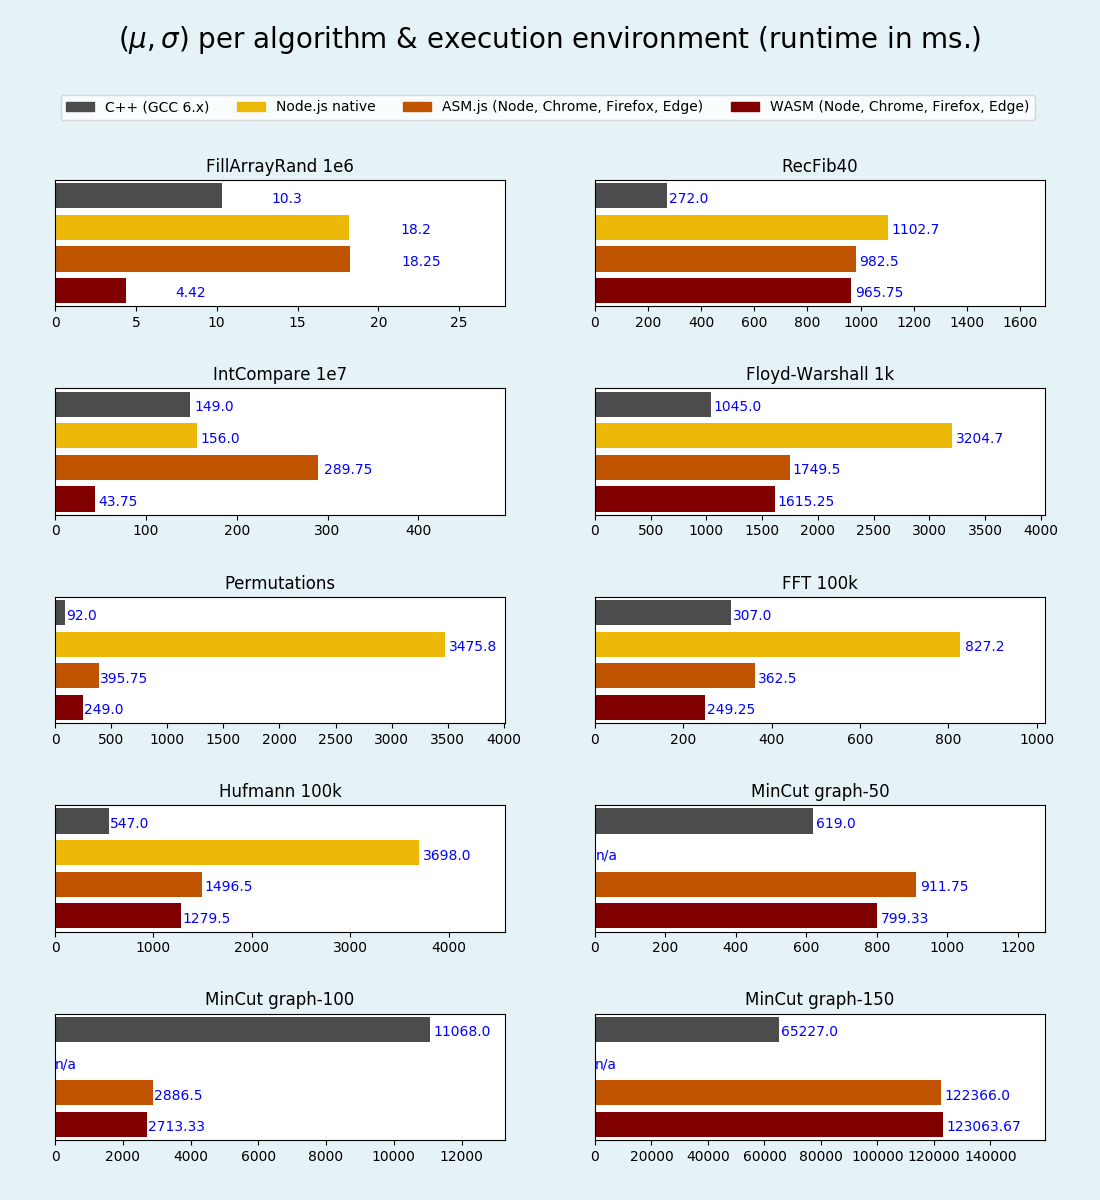
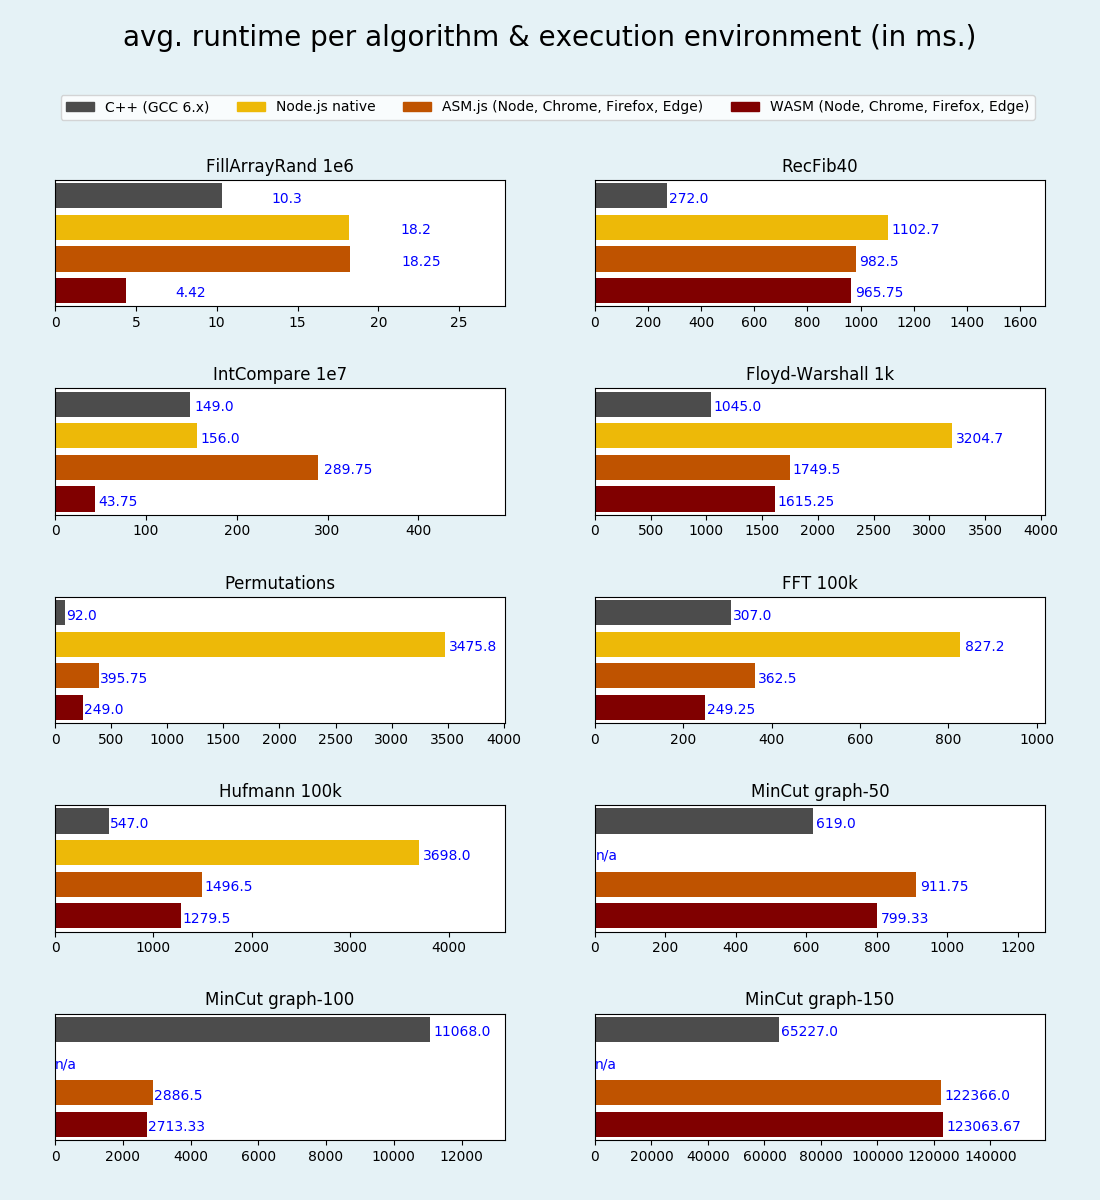
corrected diagram title and re-computed all-log plot

Changed region(s): [[0.0927, 0.0, 0.8964, 0.0617]]

diff --git a/stats/plots/mean_std_runtime_groups.py b/stats/plots/mean_std_runtime_groups.py
@@ -1,8 +1,8 @@
 from stats.plots.input_csv import readFromCSV, INPUT_CSV, INPUT_COLS, K_FOLD_VAL
 import numpy as np
 import matplotlib.pyplot as plt
-from scipy.misc import imread
-import colorsys
+# from scipy.misc import imread
+# import colorsys
 
 
 """
@@ -13,10 +13,10 @@ Barchart
 A bar plot with errorbars and height labels on individual bars
 """
 
-# colors = ['#800000', '#bf5300', '#edb908', '#4c4c4c', '#009000']
+colors = ['#800000', '#bf5300', '#edb908', '#4c4c4c', '#009000']
 # colors = ['#4f2c1d', '#cba052', '#ffe680', '#fef1b2', '#7cff00']
 # colors = ['#6f94d2', '#5b1085', '#abfdfb', '#a72294', '#f07fe0']
-colors = ['#ffa472', '#ff8847', '#e17e7c', '#ce7798', '#a669db']
+# colors = ['#ffa472', '#ff8847', '#e17e7c', '#ce7798', '#a669db']
 
 data = readFromCSV(INPUT_CSV, INPUT_COLS, K_FOLD_VAL)
 
@@ -30,7 +30,7 @@ algo_std = np.array(data.std(axis=0))
 natives = ["Native C++ GCC", "Native C++ VS"]
 jss = ["native JS Node"]
 asms = ["ASM.js Node", "ASM.js Chrome", "ASM.js Firefox", "ASM.js Edge"]
-wasms = ["WASM Chrome", "WASM Firefox", "WASM Edge"]
+wasms = ["WASM Node", "WASM Chrome", "WASM Firefox", "WASM Edge"]
 
 native_means = []
 native_stds = []
@@ -43,14 +43,14 @@ wasm_stds = []
 
 # Native CPP implementations
 for col in INPUT_COLS:
-    native_means.append(np.mean(np.array(data.loc[data[K_FOLD_VAL].isin(natives)][col])))
-    native_stds.append(np.std(np.array(data.loc[data[K_FOLD_VAL].isin(natives)][col])))
-    js_means.append(np.mean(np.array(data.loc[data[K_FOLD_VAL].isin(jss)][col])))
-    js_stds.append(np.std(np.array(data.loc[data[K_FOLD_VAL].isin(jss)][col])))
-    asmjs_means.append(np.mean(np.array(data.loc[data[K_FOLD_VAL].isin(asms)][col])))
-    asmjs_stds.append(np.std(np.array(data.loc[data[K_FOLD_VAL].isin(asms)][col])))
-    wasm_means.append(np.mean(np.array(data.loc[data[K_FOLD_VAL].isin(wasms)][col])))
-    wasm_stds.append(np.std(np.array(data.loc[data[K_FOLD_VAL].isin(wasms)][col])))
+    native_means.append(np.nanmean(np.array(data.loc[data[K_FOLD_VAL].isin(natives)][col])))
+    native_stds.append(np.nanstd(np.array(data.loc[data[K_FOLD_VAL].isin(natives)][col])))
+    js_means.append(np.nanmean(np.array(data.loc[data[K_FOLD_VAL].isin(jss)][col])))
+    js_stds.append(np.nanstd(np.array(data.loc[data[K_FOLD_VAL].isin(jss)][col])))
+    asmjs_means.append(np.nanmean(np.array(data.loc[data[K_FOLD_VAL].isin(asms)][col])))
+    asmjs_stds.append(np.nanstd(np.array(data.loc[data[K_FOLD_VAL].isin(asms)][col])))
+    wasm_means.append(np.nanmean(np.array(data.loc[data[K_FOLD_VAL].isin(wasms)][col])))
+    wasm_stds.append(np.nanstd(np.array(data.loc[data[K_FOLD_VAL].isin(wasms)][col])))
 
 # print(native_means)
 # print(js_means)

diff --git a/stats/plots/one_plot_per_algo.py b/stats/plots/one_plot_per_algo.py
@@ -82,7 +82,7 @@ bars_width = .8             # the width of the bars
 
 fig, axes = plt.subplots(5, 2, figsize=(11, 12)) # subplot_kw=dict(polar=True)
 fig.set_facecolor((230/256.0, 243/256.0, 247/256.0))
-fig.suptitle(r'($\mu, \sigma$) per algorithm & execution environment (runtime in ms.)', fontsize=20)
+fig.suptitle(r'avg. runtime per algorithm & execution environment (in ms.)', fontsize=20)
 plt.title('Runtime in ms.', fontsize=14)
 
 lines = []

diff --git a/stats/plots/mean_std_plot.py b/stats/plots/mean_std_plot.py
@@ -1,7 +1,7 @@
 from stats.plots.input_csv import readFromCSV, INPUT_CSV, INPUT_COLS, K_FOLD_VAL
 import numpy as np
 import matplotlib.pyplot as plt
-from scipy.misc import imread
+# from scipy.misc import imread
 import colorsys
 
 
